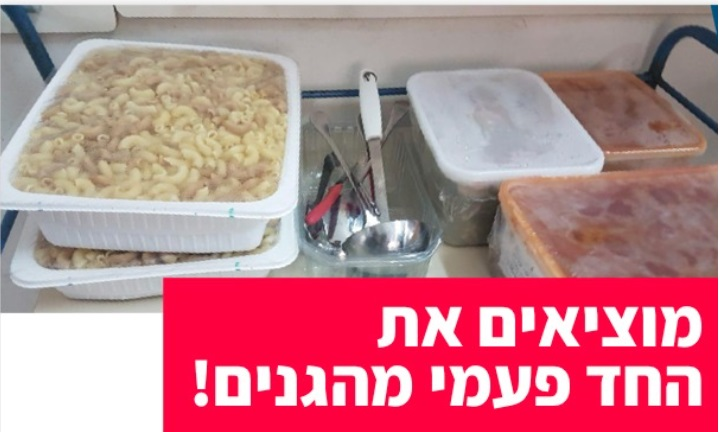
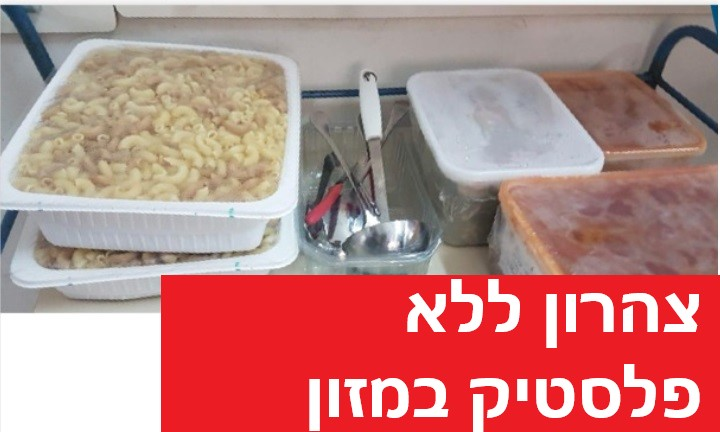
more

Changed region(s): [[0.2139, 0.6319, 1.0, 1.0]]

diff --git a/src/App.js b/src/App.js
@@ -15,7 +15,13 @@ import './App.css';
 import copy from 'copy-to-clipboard';
 
 const URL_106 = 'https://www5.tel-aviv.gov.il/TlvForms/106plus/'
-const URL_EDU = 'https://www5.tel-aviv.gov.il/tlvforms/tlvpublicpetition/?st=41';
+const URL_EDU_GAN = 'https://www5.tel-aviv.gov.il/tlvforms/tlvpublicpetition/?st=41';
+const URL_EDU_SCHOOL = 'https://www5.tel-aviv.gov.il/tlvforms/tlvpublicpetition/?st=119';
+
+const TargetType = {
+  MOKED_106: '106',
+  EDU: 'edu'
+}
 
 var mixpanel = require('mixpanel-browser');
 mixpanel.init('99f509e7db2efd670d8fa645fa070b1a');
@@ -49,6 +55,7 @@ class App extends React.Component {
     this.state = {
       requestBody: requests[index].body,
       requestSubject: requests[index].subject,
+      target: Math.floor(Math.random() * 2) ? TargetType.EDU : TargetType.MOKED_106,
     };
   }
 
@@ -56,9 +63,8 @@ class App extends React.Component {
     mixpanel.track('Referral Page Shown');
   }
 
-  openTicket() {
+  openTicket(targetUrl) {
     copy(`שלום,\n${this.state.requestBody}`);
-    const targetUrl = Math.floor(Math.random() * 2) ? URL_EDU : URL_106;
     mixpanel.track('Open-Ticket Clicked', { targetUrl });
     window.open(targetUrl);
   }
@@ -81,8 +87,7 @@ class App extends React.Component {
   onGmailClicked = () => {
     mixpanel.track('Compose Email Clicked', { client: 'gmail' });
     window.open(this.composeGmailUrl());
-  }
- 
+  } 
 
   render() {
     const bannerStyle = {
@@ -106,6 +111,27 @@ class App extends React.Component {
       width: 'fit-content',
     };
 
+    const ticketButtonsBoxStyle = {
+      marginTop: '10px',
+
+      display: 'flex',
+      marginRight: 'auto',
+      width: 'fit-content',
+    };
+
+    const moked106 = (
+      <Box style={ticketButtonsBoxStyle}>
+        <Button style={buttonStyle} color='secondary' variant='contained' onClick={() => this.openTicket(URL_106)}>העתק פניה ל-Clipboard <br />ופתח פניה באתר העיריה</Button>
+      </Box>
+    );
+
+    const edu = (
+      <Box style={ticketButtonsBoxStyle}>
+        <Button style={buttonStyle} color='secondary' variant='contained' onClick={() => this.openTicket(URL_EDU_GAN)}>העתק פניה ל-Clipboard <br />ופתח פניה באתר העיריה<br />(גן ילדים)</Button>
+        <Button style={buttonStyle} color='secondary' variant='contained' onClick={() => this.openTicket(URL_EDU_SCHOOL)}>העתק פניה ל-Clipboard <br />ופתח פניה באתר העיריה<br />(בית ספר)</Button>
+      </Box>
+    );
+
 
     return (
       <React.Fragment>
@@ -124,10 +150,8 @@ class App extends React.Component {
               <Typography variant='h4'>פתיחת פניה באתר העיריה</Typography >
               1. לחץ/לחצי על הכפתור להפניה לאתר העיריה ושמירת תוכן הפניה ל-Clipboard<br />
               2. מלא/י פרטים מלאים באתר העיריה<br/>
-              3. בצע/י פעולת 'הדבק' על מנת להכניס את תוכן הפניה ששמרנו עבורך<br/>
-              <Box>
-                <Button style={buttonStyle} color='secondary' variant='contained' onClick={() => this.openTicket()}>העתק פניה ל-Clipboard <br />ופתח פניה באתר העיריה</Button>
-              </Box>
+              3. בצע/י פעולת 'הדבק' על מנת להכניס את תוכן הפניה ששמרנו עבורך<br/>              
+              {this.state.target === TargetType.MOKED_106 ? moked106 : edu}
             </Box>
             <Divider style={{ marginTop: '10px' }} />
             <Box>

diff --git a/src/content.js b/src/content.js
@@ -11,7 +11,7 @@ export const requests = [
   { subject: `פלסטיק במזון - צהרון`, body: `ד"ר חגית אולנובסקי מספרת בכתבה על סכנות השימוש בפלסטיק להובלת מזון רותח, ברצוני לשמוע מדוע 9 חודשים לאחר הכתבה העיריה לא טיפלה בנושא?` },
   { subject: `הבטחתכם לגבי הפלסטיק בצהרונים`, body: `הבטחות צריך לקיים, בייחוד כשהן קשורות לילדים. אחרי שהבטחתם שבשנה הזו לא נראה עוד פלסטיק חד פעמי עכשיו הילדים של כולנו יהיו עדיין חשופים לסכנות הפלסטיק. מתי יטופל?` },
   { subject: `ניסוי בילדי הצהרונים`, body: `אבקש להפסיק את הניסוי בילדי הצהרונים. ד"ר חגית אולנובסקי אמרה בכתבה ב YNET שהובלת מזון רותח בפלסטיק לאורך שעות עבור ילדים הוא ניסוי שאין לו אח ורע בעולם.` },
-  { subject: `ארוחת הצהריים בצהרון`, body: `אני לא רוצה להתחיל את השנה עם סכנה בריאותית לילדים ופגיעה בסביבה בכל ארוחת צהרון. אבקש לטפל בנושא העברת המזון בפלסטיק ואכילה בחד"פ במהרה(מעבר לרב פעמי ונירוסטה)?` },
+  { subject: `ארוחת הצהריים בצהרון`, body: `אני לא רוצה להתחיל את השנה עם סכנה בריאותית לילדים ופגיעה בסביבה בכל ארוחת צהרון. אבקש לטפל בנושא העברת המזון בפלסטיק ואכילה בחד"פ במהרה(מעבר לרב פעמי ונירוסטה)` },
   { subject: `הסכנה שבמזון הילדים בצהרון`, body: `כולי דאגה לגבי הצהרון השנה. בבית לא אשתמש לעולם בפלסטיק עם מזון רותח אבל הילדים שלי ייפגשו את זה כל יום בצהרון!` },
   { subject: `ארוחות הצהרון - פלסטיק`, body: `הצהרון אמור להיות מקום בטוח לילדים, אבל העיריה לא פועלת להפסקת סכנת המזון הרותח בפלסטיק. מתי יטופל?` },
   { subject: `דרישת מידע - בטיחות מזון בצהרונים`, body: `לאחרונה נודע לי שעיריית תל אביב מובילה את המזון לילדים בפלסטיק מסרטן, על אף שמומחי בריאות בכל העולם מזהירים מפני ההשלכות. מי האחראי להחלטה השערורייתית הזו? אבקש שתחזרו אליי בהקדם עם תשובה מי נתן את ההוראה, באיזו סמכות היא התקבלה, ומה היו הטיעונים. אבקש לקבל את פרוטוקול הישיבה המלא בה נתקבלה ההחלטה, באם התקיימה כזו, ואת התכתובת המלאה בין בעלי התפקידים הרלוונטיים בנידון. מחכה לתשובתכם המהירה` },
